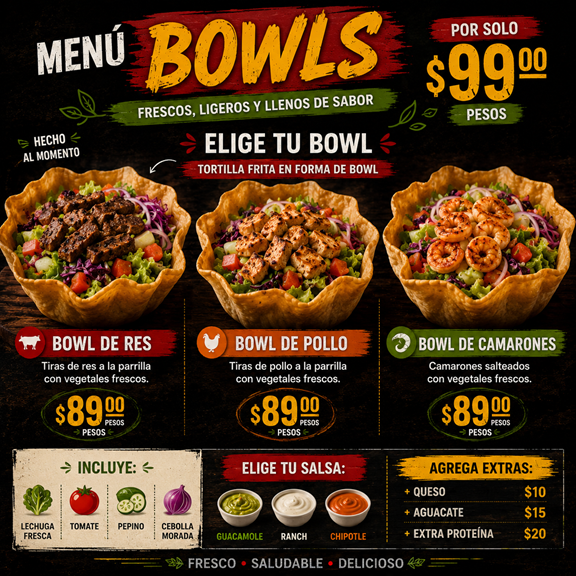
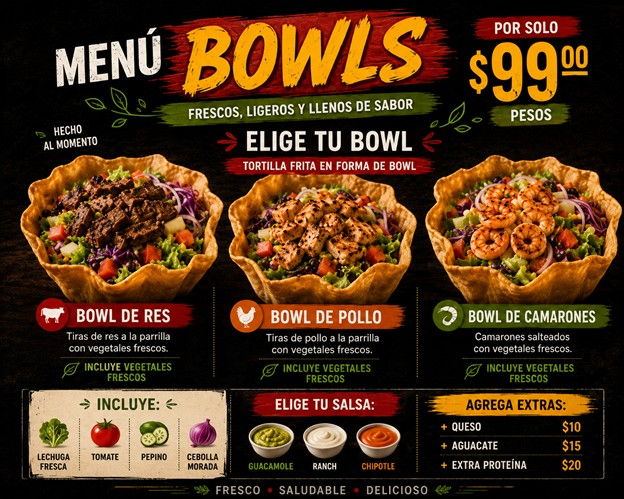
Refactor carousel layout and styles for improved responsiveness

diff --git a/index.html b/index.html
@@ -1,10 +1,10 @@
 <!DOCTYPE html>
 <html lang="es">
-<head>
-    <meta charset="UTF-8">
-    <meta name="viewport" content="width=device-width, initial-scale=1.0">
-    <title>Menús Expres</title>
-    <style>
+    <head>
+        <meta charset="UTF-8">
+        <meta name="viewport" content="width=device-width, initial-scale=1.0">
+        <title>Menús Expres</title>
+        <style>
         * {
             margin: 0;
             padding: 0;
@@ -33,17 +33,17 @@
 
         .carousel {
             display: flex;
-            gap: 20px;
+            gap: 5px;
             justify-content: center;
             align-items: center;
             width: 100%;
             height: 100%;
-            padding: 40px;
+            padding: 5px;
         }
 
         .carousel-image {
-            max-width: 45%;
-            max-height: 90%;
+            max-width: 49.5%;
+            max-height: 99%;
             object-fit: contain;
             display: block;
             cursor: pointer;
@@ -82,17 +82,20 @@
             opacity: 1;
         }
     </style>
-</head>
-<body>
-    <div class="carousel-container">
-        <div class="carousel">
-            <img id="image1" class="carousel-image fade-in" src="imgs/Bowls.png" alt="Menú">
-            <img id="image2" class="carousel-image fade-in" src="imgs/Burritos.png" alt="Menú">
+    </head>
+    <body>
+        <div class="carousel-container">
+            <div class="carousel">
+                <img id="image1" class="carousel-image fade-in"
+                    src="imgs/Bowls.png" alt="Menú">
+                <img id="image2" class="carousel-image fade-in"
+                    src="imgs/Burritos.png" alt="Menú">
+            </div>
+            <button class="fullscreen-btn" id="fullscreenBtn">🖥️ Pantalla
+                Completa</button>
         </div>
-        <button class="fullscreen-btn" id="fullscreenBtn">🖥️ Pantalla Completa</button>
-    </div>
 
-    <script>
+        <script>
         const image1 = document.getElementById('image1');
         const image2 = document.getElementById('image2');
         const fullscreenBtn = document.getElementById('fullscreenBtn');
@@ -206,5 +209,5 @@
             }
         });
     </script>
-</body>
+    </body>
 </html>